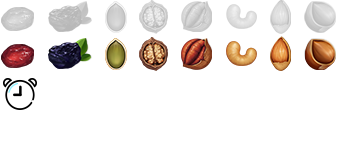
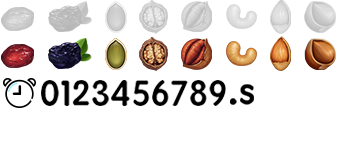
add animate and font

Changed region(s): [[0.0, 0.4935, 0.7536, 0.7273]]

diff --git a/public/stylesheets/style-threeSquirrels.min.css b/public/stylesheets/style-threeSquirrels.min.css
@@ -1,1 +1,1 @@
-@charset "UTF-8";html{height:100%;max-width:750px;margin:0 auto}body{height:100%;width:100%;font-size:62.5%!important;overflow:hidden;-webkit-user-select:none;-moz-user-select:none;-ms-user-select:none;user-select:none;-webkit-tap-highlight-color:transparent;background:-webkit-linear-gradient(#8cf0ff,#39feb6)}*{margin:0;padding:0;border:none;font-family:"微软雅黑";-webkit-box-sizing:border-box;box-sizing:border-box;list-style-type:none}.img-responsive{max-width:100%;max-height:100%}.hidden{display:none}.dis_bottom,.dis_top{height:120px}.body-wrap{height:100%;width:100%}.loading_page{display:table;height:100%}.loading_page .loading_wrap{display:table-cell;vertical-align:middle}.loading_page .loading_wrap .loading p{font-size:1.2rem;color:#fff;text-align:center;margin-top:1rem}#loadingPage{width:70%;margin:0 auto}#loadingPage .loading_wrap{text-align:center}#loadingPage .loading_wrap .loading_img{width:50%}#loadingPage .loading_wrap .loading{width:100%;height:.6rem;border-top-left-radius:20px;border-bottom-left-radius:20px;border-top-right-radius:20px;border-bottom-right-radius:20px;background:#57d5c0;margin:1rem 0}#loadingPage .loading_wrap .loading .progress{background:#ff7900;border-radius:10%;height:.6rem;border-top-left-radius:20px;border-bottom-left-radius:20px;border-top-right-radius:20px;border-bottom-right-radius:20px}#gamePage{position:relative;height:100%;width:100%;background-color:#00b1be;padding:40px 0}#gamePage .game_mask{position:fixed;top:0;right:0;bottom:0;left:0;background:#000;opacity:.5;z-index:99}#gamePage .game_result_show{position:relative}#gamePage .game_result_show .game_tooltip_box{position:absolute;left:0;right:0;z-index:100;margin:0 auto;text-align:center}#gamePage .game_result_show .game_tooltip_box .game_again_btn{height:3.4rem;position:absolute;left:20px;right:0;bottom:30px}#gamePage .game_result_show .game_tooltip_box .get_photo_btn{height:3.4rem;position:absolute;right:20px;bottom:30px}#gamePage .game_result_show .game_sucess,#gamePage .game_result_show .game_unsucess{max-width:95%}#gamePage .game_result_success .get_photo_btn{height:3.4rem;position:absolute;left:0!important;right:0!important;margin:0 auto;bottom:30px}#gamePage .game_header .game_type{text-align:center}#gamePage .game_header .game_type .type{width:42px;height:37px;display:inline-block;margin:0 auto}#gamePage .game_header .game_type .type_1{background:url(/image/sprit.png) 0 0}#gamePage .game_header .game_type .type_2{width:50px;background:url(/image/sprit.png) -45px 0}#gamePage .game_header .game_type .type_3{width:35px;background:url(/image/sprit.png) -98px 0}#gamePage .game_header .game_type .type_4{width:35px;background:url(/image/sprit.png) -137px 0}#gamePage .game_header .game_type .type_5{background:url(/image/sprit.png) -175px 0}#gamePage .game_header .game_type .type_6{background:url(/image/sprit.png) -220px 0}#gamePage .game_header .game_type .type_7{width:35px;background:url(/image/sprit.png) -265px 0}#gamePage .game_header .game_type .type_8{width:35px;background:url(/image/sprit.png) -303px 0}#gamePage .game_header .game_type .type_active_1{background:url(/image/sprit.png) 0 -38px}#gamePage .game_header .game_type .type_active_2{background:url(/image/sprit.png) -45px -38px}#gamePage .game_header .game_type .type_active_3{background:url(/image/sprit.png) -98px -38px}#gamePage .game_header .game_type .type_active_4{background:url(/image/sprit.png) -137px -38px}#gamePage .game_header .game_type .type_active_5{background:url(/image/sprit.png) -175px -38px}#gamePage .game_header .game_type .type_active_6{background:url(/image/sprit.png) -220px -38px}#gamePage .game_header .game_type .type_active_7{background:url(/image/sprit.png) -265px -38px}#gamePage .game_header .game_type .type_active_8{background:url(/image/sprit.png) -303px -38px}#gamePage .game_body{margin-top:30px;background:url(/image/4_bg.png) no-repeat -50px;width:100%;background-size:120% 100%;padding:50px 0}#gamePage .game_body .game_box{width:85%;height:88%;margin:0 auto;overflow:hidden}#gamePage .game_body .game_track{position:relative;width:24%;height:100%;display:inline-block;overflow:hidden;overflow-y:hidden}#gamePage .game_body .game_track .track_ul li{position:absolute;left:0;right:0;text-align:center;margin:0 auto;top:-150px;width:70%;-webkit-tap-highlight-color:transparent}#gamePage .game_body .game_track .track_ul li a{display:block}#gamePage .game_body .game_track .track_ul li a img{text-align:center;margin:0 auto}#gamePage .game_body img{max-width:100%}#autographPage{height:100%;width:100%;background-color:#00b1be}#autographPage .photo_show{margin:0 auto;text-align:center}#autographPage .photo_show .photo_img{display:block;max-width:100%;height:90%;margin:0 auto;text-align:center;clear:both}#autographPage .photo_show a.photo_btn{height:3.4rem}#autographPage .photo_show a.photo_btn img{height:3.4rem}.animated{-webkit-animation-duration:1s;animation-duration:1s;-webkit-animation-fill-mode:both;animation-fill-mode:both}.animated.infinite{-webkit-animation-iteration-count:infinite;animation-iteration-count:infinite}.animated.hinge{-webkit-animation-duration:2s;animation-duration:2s}.animated.bounceIn,.animated.bounceOut,.animated.flipOutX,.animated.flipOutY{-webkit-animation-duration:.75s;animation-duration:.75s}@-webkit-keyframes fadeIn{from{opacity:0}to{opacity:1}}@keyframes fadeIn{from{opacity:0}to{opacity:1}}.fadeIn{-webkit-animation-name:fadeIn;animation-name:fadeIn}@-webkit-keyframes fadeInDown{from{opacity:0;-webkit-transform:translate3d(0,-100%,0);transform:translate3d(0,-100%,0)}to{opacity:1;-webkit-transform:none;transform:none}}@keyframes fadeInDown{from{opacity:0;-webkit-transform:translate3d(0,-100%,0);transform:translate3d(0,-100%,0)}to{opacity:1;-webkit-transform:none;transform:none}}.fadeInDown{-webkit-animation-name:fadeInDown;animation-name:fadeInDown}
+@charset "UTF-8";html{height:100%;max-width:750px;margin:0 auto}body{height:100%;width:100%;font-size:62.5%!important;overflow:hidden;-webkit-user-select:none;-moz-user-select:none;-ms-user-select:none;user-select:none;-webkit-tap-highlight-color:transparent;background:-webkit-linear-gradient(#8cf0ff,#39feb6)}*{margin:0;padding:0;border:none;font-family:"微软雅黑";-webkit-box-sizing:border-box;box-sizing:border-box;list-style-type:none}.img-responsive{max-width:100%;max-height:100%}.hidden{display:none}.dis_bottom,.dis_top{height:120px}.right{position:absolute;top:0;left:0;right:0;bottom:0}.body-wrap{height:100%;width:100%}.loading_page{display:table;height:100%}.loading_page .loading_wrap{display:table-cell;vertical-align:middle}.loading_page .loading_wrap .loading p{font-size:1.2rem;color:#fff;text-align:center;margin-top:1rem}#loadingPage{width:70%;margin:0 auto}#loadingPage .loading_wrap{text-align:center}#loadingPage .loading_wrap .loading_img{width:50%}#loadingPage .loading_wrap .loading{width:100%;height:.6rem;border-top-left-radius:20px;border-bottom-left-radius:20px;border-top-right-radius:20px;border-bottom-right-radius:20px;background:#57d5c0;margin:1rem 0}#loadingPage .loading_wrap .loading .progress{background:#ff7900;border-radius:10%;height:.6rem;border-top-left-radius:20px;border-bottom-left-radius:20px;border-top-right-radius:20px;border-bottom-right-radius:20px}#gamePage{position:relative;height:100%;width:100%;background-color:#00b1be;padding:40px 0}#gamePage .game_time{margin:0 auto;text-align:center}#gamePage .game_time span{display:inline-block;width:45px;height:45px}#gamePage .game_time .time_clock{background:url(/image/sprit.png) 0 -71px;width:40px}#gamePage .game_time .time_m_first{background:url(/image/sprit.png) -62px -72px;width:8px}#gamePage .game_time .time_m_second{background:url(/image/sprit.png) -40px -72px;width:18px}#gamePage .game_time .time_spot{background:url(/image/sprit.png) -229px -72px;width:9px}#gamePage .game_time .time_s{background:url(/image/sprit.png) -40px -72px;width:18px}#gamePage .game_time .time_s_unit{background:url(/image/sprit.png) -240px -71px;width:19px}#gamePage .game_time .time_0{background:url(/image/sprit.png) -40px -72px;width:18px}#gamePage .game_time .time_1{background:url(/image/sprit.png) -62px -72px;width:8px}#gamePage .game_time .time_1{background:url(/image/sprit.png) -62px -72px;width:8px}#gamePage .game_time .time_2{background:url(/image/sprit.png) -74px -72px;width:15px}#gamePage .game_time .time_3{background:url(/image/sprit.png) -93px -72px;width:15px}#gamePage .game_time .time_4{background:url(/image/sprit.png) -112px -72px;width:16px}#gamePage .game_time .time_5{background:url(/image/sprit.png) -135px -72px;width:14px}#gamePage .game_time .time_6{background:url(/image/sprit.png) -153px -72px;width:15px}#gamePage .game_time .time_7{background:url(/image/sprit.png) -170px -72px;width:17px}#gamePage .game_time .time_8{background:url(/image/sprit.png) -190px -72px;width:16px}#gamePage .game_time .time_9{background:url(/image/sprit.png) -210px -72px;width:15px}#gamePage .game_mask{position:fixed;top:0;right:0;bottom:0;left:0;background:#000;opacity:.5;z-index:99}#gamePage .game_result_show{position:relative}#gamePage .game_result_show .game_tooltip_box{position:absolute;left:0;right:0;z-index:100;margin:0 auto;text-align:center}#gamePage .game_result_show .game_tooltip_box .game_again_btn{height:3.4rem;position:absolute;left:20px;right:0;bottom:30px}#gamePage .game_result_show .game_tooltip_box .get_photo_btn{height:3.4rem;position:absolute;right:20px;bottom:30px}#gamePage .game_result_show .game_sucess,#gamePage .game_result_show .game_unsucess{max-width:95%}#gamePage .game_result_success .get_photo_btn{height:3.4rem;position:absolute;left:0!important;right:0!important;margin:0 auto;bottom:3rem!important}#gamePage .game_result_success .game_data{position:relative}#gamePage .game_result_success .game_data .use_time{position:absolute;top:8.5rem;left:0;bottom:0;right:0;font-size:28px;font-weight:700;margin-left:3.5rem;color:#fe4a00}#gamePage .game_result_success .game_data .use_percent{position:absolute;top:12.3rem;left:0;bottom:0;right:0;font-size:28px;font-weight:700;margin-left:4.5rem;color:#fe4a00}#gamePage .game_result_success .game_data .youhuijiuan{position:absolute;top:16.5rem;left:0;bottom:0;right:0;margin:0 auto;height:7rem}#gamePage .game_header .game_type{text-align:center}#gamePage .game_header .game_type .type{width:42px;height:37px;display:inline-block;margin:0 auto}#gamePage .game_header .game_type .type_1{background:url(/image/sprit.png) 0 0}#gamePage .game_header .game_type .type_2{width:50px;background:url(/image/sprit.png) -45px 0}#gamePage .game_header .game_type .type_3{width:35px;background:url(/image/sprit.png) -98px 0}#gamePage .game_header .game_type .type_4{width:35px;background:url(/image/sprit.png) -137px 0}#gamePage .game_header .game_type .type_5{background:url(/image/sprit.png) -175px 0}#gamePage .game_header .game_type .type_6{background:url(/image/sprit.png) -220px 0}#gamePage .game_header .game_type .type_7{width:35px;background:url(/image/sprit.png) -265px 0}#gamePage .game_header .game_type .type_8{width:35px;background:url(/image/sprit.png) -303px 0}#gamePage .game_header .game_type .type_active_1{background:url(/image/sprit.png) 0 -38px}#gamePage .game_header .game_type .type_active_2{background:url(/image/sprit.png) -45px -38px}#gamePage .game_header .game_type .type_active_3{background:url(/image/sprit.png) -98px -38px}#gamePage .game_header .game_type .type_active_4{background:url(/image/sprit.png) -137px -38px}#gamePage .game_header .game_type .type_active_5{background:url(/image/sprit.png) -175px -38px}#gamePage .game_header .game_type .type_active_6{background:url(/image/sprit.png) -220px -38px}#gamePage .game_header .game_type .type_active_7{background:url(/image/sprit.png) -265px -38px}#gamePage .game_header .game_type .type_active_8{background:url(/image/sprit.png) -303px -38px}#gamePage .game_body{margin-top:30px;background:url(/image/4_bg.png) no-repeat -50px;width:100%;background-size:120% 100%;padding:50px 0}#gamePage .game_body .game_box{width:85%;height:88%;margin:0 auto;overflow:hidden}#gamePage .game_body .game_track{position:relative;width:24%;height:100%;display:inline-block;overflow:hidden;overflow-y:hidden}#gamePage .game_body .game_track .track_ul li{position:absolute;left:0;right:0;text-align:center;margin:0 auto;top:-150px;width:70%;-webkit-tap-highlight-color:transparent}#gamePage .game_body .game_track .track_ul li a{display:block}#gamePage .game_body .game_track .track_ul li a img{text-align:center;margin:0 auto}#gamePage .game_body img{max-width:100%}#autographPage{height:100%;width:100%;background-color:#00b1be}#autographPage .photo_show{margin:0 auto;text-align:center}#autographPage .photo_show .photo_img{display:block;max-width:100%;height:90%;margin:0 auto;text-align:center;clear:both}#autographPage .photo_show a.photo_btn{height:3.4rem}#autographPage .photo_show a.photo_btn img{height:3.4rem}.animated{-webkit-animation-duration:1s;animation-duration:1s;-webkit-animation-fill-mode:both;animation-fill-mode:both}.animated.infinite{-webkit-animation-iteration-count:infinite;animation-iteration-count:infinite}.animated.hinge{-webkit-animation-duration:2s;animation-duration:2s}.animated.bounceIn,.animated.bounceOut,.animated.flipOutX,.animated.flipOutY{-webkit-animation-duration:.75s;animation-duration:.75s}@-webkit-keyframes fadeIn{from{opacity:0}to{opacity:1}}@keyframes fadeIn{from{opacity:0}to{opacity:1}}.fadeIn{-webkit-animation-name:fadeIn;animation-name:fadeIn}@-webkit-keyframes fadeInDown{from{opacity:0;-webkit-transform:translate3d(0,-100%,0);transform:translate3d(0,-100%,0)}to{opacity:1;-webkit-transform:none;transform:none}}@keyframes fadeInDown{from{opacity:0;-webkit-transform:translate3d(0,-100%,0);transform:translate3d(0,-100%,0)}to{opacity:1;-webkit-transform:none;transform:none}}.fadeInDown{-webkit-animation-name:fadeInDown;animation-name:fadeInDown}

diff --git a/public/javascripts/threeSquirrels.js b/public/javascripts/threeSquirrels.js
@@ -66,24 +66,50 @@
     var ts_8=0;//榛子
     var ts_13=0;//炸弹
 
+    var num =0;//坚果松鼠增加
+    var numz = 10.0; //10s倒计时
+    var imgNumb = 0;
+    var len=0; //已选中的坚果数
+    var ctime = null;//计时器
+    var clicknumb =0;
+    var ts,wh,ts,top;
+
     $(function(){
         FastClick.attach(document.body); 
         var pageHeight = $(window).height() ;
         $('.game_body').height(pageHeight - 240);
         $('.phtot_show').height($('#autographPage').height() - 240)
         $('.img_container').height($('#autographPage').height() - 240 - 55)
-        add();
-        backWard();
-        // alert('show?')
 
+        
+
+        var imgArr = [1,2,3];
+        var val = imgArr[Math.floor(Math.random()*imgArr.length)]
+        $('.gameAgain').bind('click',function(){
+          window.location.reload(true)
+        })
+        $('.GetPhoto').bind('click',function(){
+            $('#gamePage').hide();
+            $('#autographPage').show();
+            $('.img_container').append("<img src=\"image/photo_"+ val +".png\" class=\"animated fadeInDown photo_img\"\">")
+        })
+        $('#getMore').bind('click',function(){
+            var imgNumb = [1,2,3];
+            var data = imgNumb[Math.floor(Math.random()*imgNumb.length)]
+            $('.photo_img').attr(
+                'src','image/photo_'+data+'.png'
+            )           
+        })  
+        $('#toBuy').bind("click",function(){
+            alert('点击购买元气')
+        })
     })
 
-    var num =0;//坚果松鼠增加
-    var numz = 10; //10s倒计时
-    var imgNumb = 0;
-    var len=0; //已选中的坚果数
-    var ctime = null;//计时器
-    var ts,wh,ts,top;
+
+    
+   
+    
+    
     function random(){
         Wh = parseInt(Math.random() * (70 - 30) + 20);//获取 20<= x <60 的数字
         ts = parseInt(Math.random() * 13 + 1);//获取 1<= x <=13 的数字
@@ -91,14 +117,16 @@
     }
 
 
-    function add() {
+     function add() {
         num ++; 
-        if(num==15){
-            num=1;
-        }
+        // if(num==15){
+        //     num=1;
+        // }
         for(var i=0;i<5;i++){
             random(); 
-            $('.track_ul_'+i).append("<li class='li_" + num + "' ><a onclick='itemsFunc(this)' href='javascript:;'><img src='image/ts_" + ts + ".png' class='ts_" + ts + "' ></a></li>");
+            if(numz>0){
+                $('.track_ul_'+i).append("<li class='li_" + num + "' onclick='itemsFunc(this)'><a  href='javascript:;'><img src='image/ts_" + ts + ".png' class='ts_" + ts + "' ></a></li>");
+            }
         }
         $(".li_" + num).animate(
             {
@@ -112,16 +140,26 @@
 
          });
 
+       
         // var timerArr = [450,350,400,480];
         // var val = timerArr[Math.floor(Math.random()*timerArr.length)]
         setTimeout(add,500);
     }
-
+   add()
     //8种坚果下落已点击事件
     function itemsFunc(e){
-        var targetClass = $(e).children()[0].className
+        // console.log($(e).children())
+        var $itemParent =$(e).children();
+        
+
+        var targetClass = $itemParent.children()[0].className
+        // console.log(targetClass)
         var targetClassArr = targetClass.split('_');
-        var targetNumb = targetClassArr[1]
+        var targetNumb = targetClassArr[1];
+        if(targetNumb>0 && targetNumb<9){ //点击了坚果 显示对勾
+            $itemParent.append("<img src='image/right.png' class='right'>");
+        }
+        console.log(targetNumb)
         switch(targetNumb){
                 case '1':  
                         if(ts_1==0){
@@ -189,10 +227,10 @@
                         }
                         break;
                 case '13':
+                        //如果点击了炸弹游戏结束
+
                         $(e)[0].innerHTML = " <img src=\"image/4_04.png\" class=\"ts_\" + targetNumb>";
-                        // console.log($(e))
-                        // console.log($(e)[0].innerHTML)
-                        // console.log($(e).context)
+                        
                 
             }
             
@@ -200,32 +238,51 @@
     }   
 
     //倒数计时
-    function backWard() {
-        numz--;
+    function backward() {
+        
+        numz = parseFloat( numz - 0.1).toFixed(1);//倒计时保留一位小数
         if(numz>=0){
-            $(".game_time").html(numz+"s");
+           var numzSplit = numz.split('')
+           // console.log(numzSplit[0]+'-'+numzSplit[2])
+           var old_time_second = numzSplit[0];
+           $('.time_m_first').hide();
+           $('.time_m_second').attr('class','time_m_second').addClass('time_'+numzSplit[0]);
+           $('.time_s').attr('class','time_s').addClass('time_'+numzSplit[2]);
+            //$(".game_time").html(numz+"s");
+
+
+            $('.ts_13').bind('click',function(){
+                //alert('click bomb')
+                $('.game_body').hide();
+                $('.game_mask').show();
+                $('.game_result_unsuccess').show();
+                if(ctime != null){
+                     clearTimeout(ctime);
+                     ctime = null;
+                }
+            })
             if(len==8){
                 if(ctime != null){
                      clearTimeout(ctime);
                      ctime = null;
                 }
+
                 var newNumz = numz;
-                clearTimeout(ctime);
-                $('.game_time').html(newNumz+"s");
+               // clearTimeout(ctime);
+                
+                //$('.game_time').html(newNumz+"s");
                 $('.game_mask').show();
                 $('.game_result_success').show();
                 return false;
             }
         }
         if(numz==0){
-            clearTimeout(ctime);
+            //clearTimeout(ctime);
             $('.game_box').hide();
             if(len<8){
                 $('.game_mask').show();
                 $('.game_result_unsuccess').show();
-                if($('.game_result_unsuccess').css('display')=="block"){
-                    playAgain();
-                }
+
             }
             if(len==8){
                 clearTimeout(ctime);
@@ -233,36 +290,11 @@
                 $('.game_result_success').show();
             }
         }
-        ctime = setTimeout(backWard,1000);
+        ctime = setTimeout(backward,100);
+        
     }
-      
-    function playAgain(){
-        $('.gameAgain').bind('click',function(){
-          window.location.reload(true)
-        })
-        $('.GetPhoto').bind('click',function(){
-            $('#gamePage').hide();
-            $('#autographPage').show();
-            var imgArr = [1,2,3];
-            var val = imgArr[Math.floor(Math.random()*imgArr.length)]
-            console.log(val)
-            // var photoValue = 'photo_'+ val +'.png'
-            // console.log(photoValue)
-            $('.img_container').append("<img src=\"image/photo_"+ val +".png\" class=\"animated fadeInDown photo_img\"\">")
-            $('#getMore').bind('click',function(){
-            var imgArr = [1,2,3];
-            var val = imgArr[Math.floor(Math.random()*imgArr.length)]
-            console.log(val)
-            $('.photo_img').attr({
-                'src':'image/photo_'+val+'.png',
-                'class':'photo_img'
-            })
-            $('#toBuy').bind("click",function(){
-                alert("点击购买元气")
-            })
-        })   
-            
-        })
-    }
-       
+   backward();
     
+ 
+    
+        

diff --git a/dist/sass/style-threeSquirrels.scss b/dist/sass/style-threeSquirrels.scss
@@ -38,7 +38,13 @@ body {
     height:120px;
     /*border:1px solid black;*/
 }
-
+.right {
+    position: absolute;
+    top:0;
+    left:0;
+    right:0;
+    bottom:0;
+}
 .body-wrap{
 	height: 100%;
 	/*display: table;*/
@@ -97,6 +103,84 @@ body {
     width: 100%;
     background-color: #00b1be;
     padding:40px 0;
+    .game_time {
+        margin:0 auto;
+        text-align: center;
+        span{
+            display: inline-block;
+            width:45px;
+            height:45px;
+            /*border:1px solid red;*/
+        }
+        .time_clock {
+           background: url(/image/sprit.png) 0 -71px;
+           width:40px;
+        }
+         .time_m_first {
+            background: url(/image/sprit.png) -62px -72px;
+            width:8px;
+        }
+         .time_m_second {
+            background: url(/image/sprit.png) -40px -72px;
+            width:18px;
+        }
+         .time_spot {
+           background: url(/image/sprit.png) -229px -72px;
+           width:9px;
+        }
+        .time_s{
+            background: url(/image/sprit.png) -40px -72px;
+            width:18px;
+        }
+        .time_s_unit{
+             background: url(/image/sprit.png) -240px -71px;
+             width:19px;
+        }
+        .time_0{
+            background: url(/image/sprit.png) -40px -72px;
+            width:18px;
+        }
+        .time_1{
+             background: url(/image/sprit.png) -62px -72px;
+             width:8px;
+        }
+        .time_1{
+             background: url(/image/sprit.png) -62px -72px;
+             width:8px;
+        }
+        .time_2{
+            background: url(/image/sprit.png) -74px -72px;
+            width:15px;
+        }
+        .time_3 {
+             background: url(/image/sprit.png) -93px -72px;
+             width:15px;
+        }
+        .time_4{
+            background: url(/image/sprit.png) -112px -72px;
+            width:16px;
+        }
+        .time_5{
+            background: url(/image/sprit.png) -135px -72px;
+            width:14px;
+        }
+        .time_6{
+            background: url(/image/sprit.png) -153px -72px;
+            width:15px;
+        }
+        .time_7 {
+            background: url(/image/sprit.png) -170px -72px;
+            width:17px;
+        }
+        .time_8{
+            background: url(/image/sprit.png) -190px -72px;
+            width:16px;
+        }
+        .time_9{
+            background: url(/image/sprit.png) -210px -72px;
+            width:15px;
+        }
+    }
     .game_mask{
         position: fixed;
         top:0;
@@ -144,7 +228,42 @@ body {
                 left:0 !important;
                 right: 0 !important;
                 margin:0 auto;
-                bottom: 30px;
+                bottom: 3rem !important;
+        }
+        .game_data {
+            position: relative;
+            .use_time{
+                position: absolute;
+                top: 8.5rem;
+                left: 0;
+                bottom: 0;
+                right: 0;
+                font-size: 28px;
+                font-weight: bold;
+                margin-left: 3.5rem;
+                color:#fe4a00;
+            }
+            .use_percent{
+                position: absolute;
+                top: 12.3rem;
+                left: 0;
+                bottom: 0;
+                right: 0;
+                font-size: 28px;
+                font-weight: bold;
+                margin-left: 4.5rem;
+                color:#fe4a00;
+            }
+            .youhuijiuan {
+                position: absolute;
+                top: 16.5rem;
+                left: 0;
+                bottom: 0;
+                right: 0;
+                margin:0 auto;
+                /*max-width: 100%;*/
+                height:7rem;
+            }
         }
     }
     .game_header {
